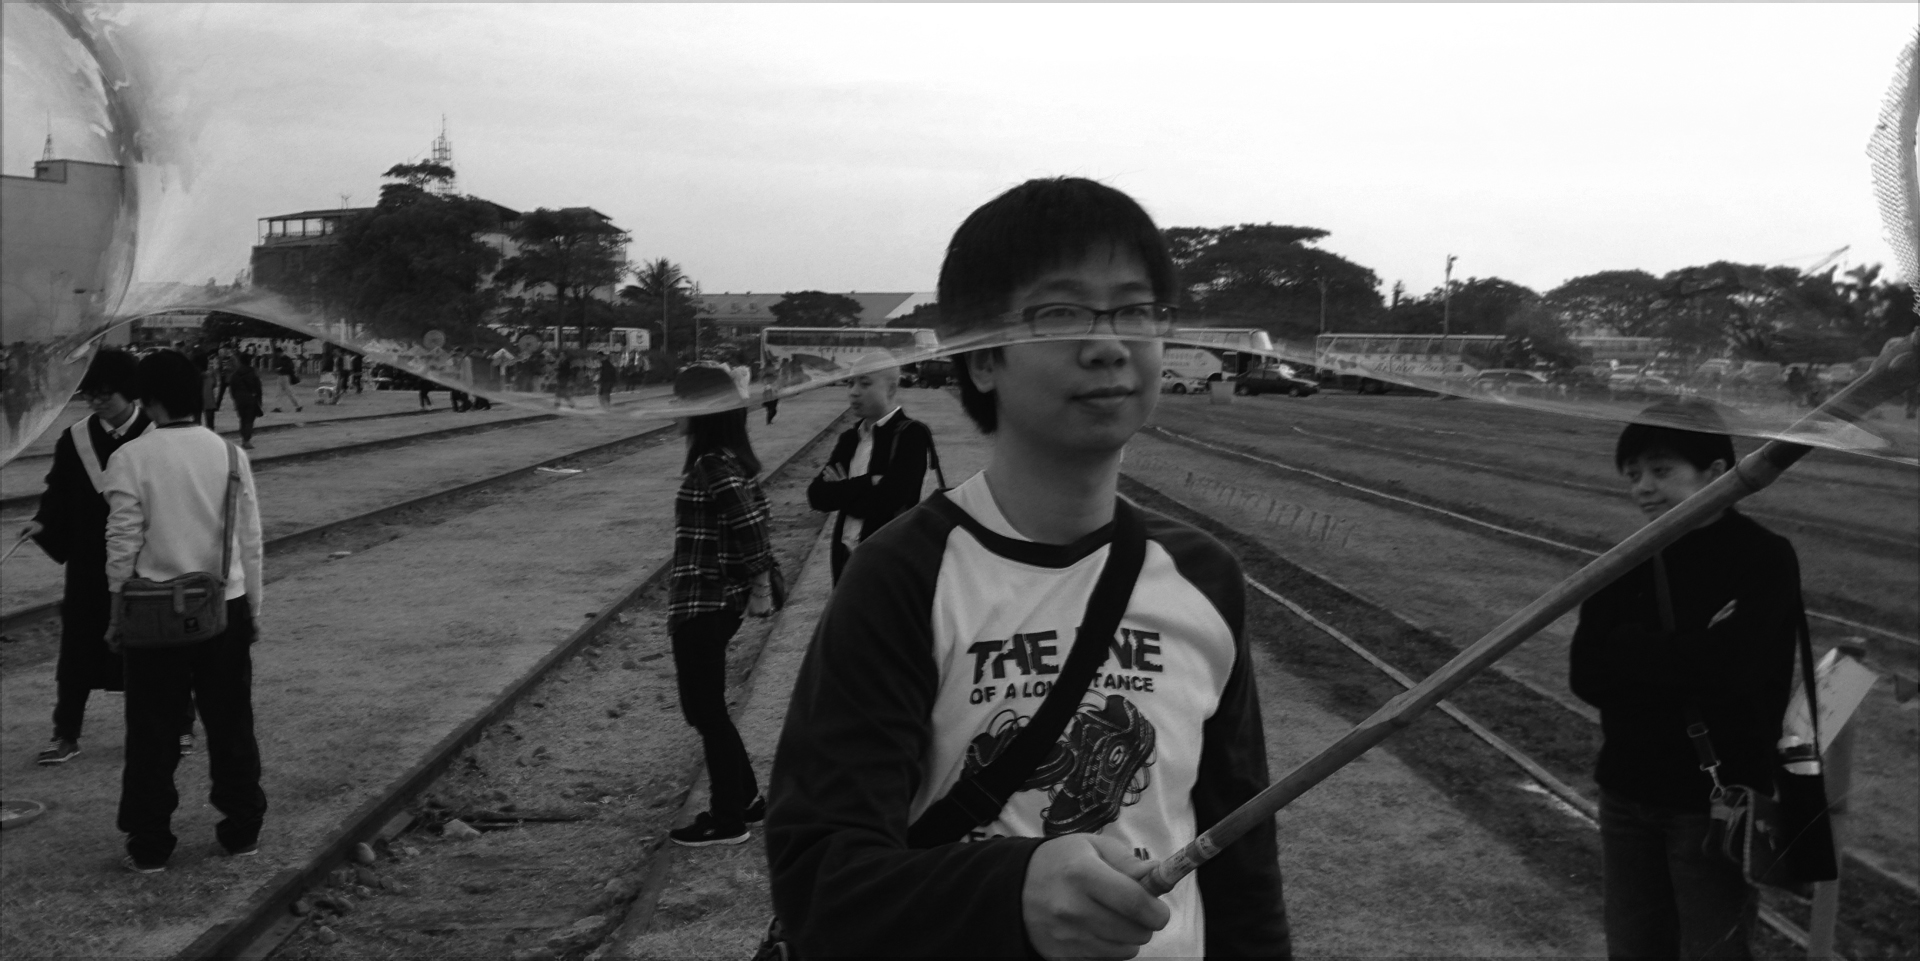
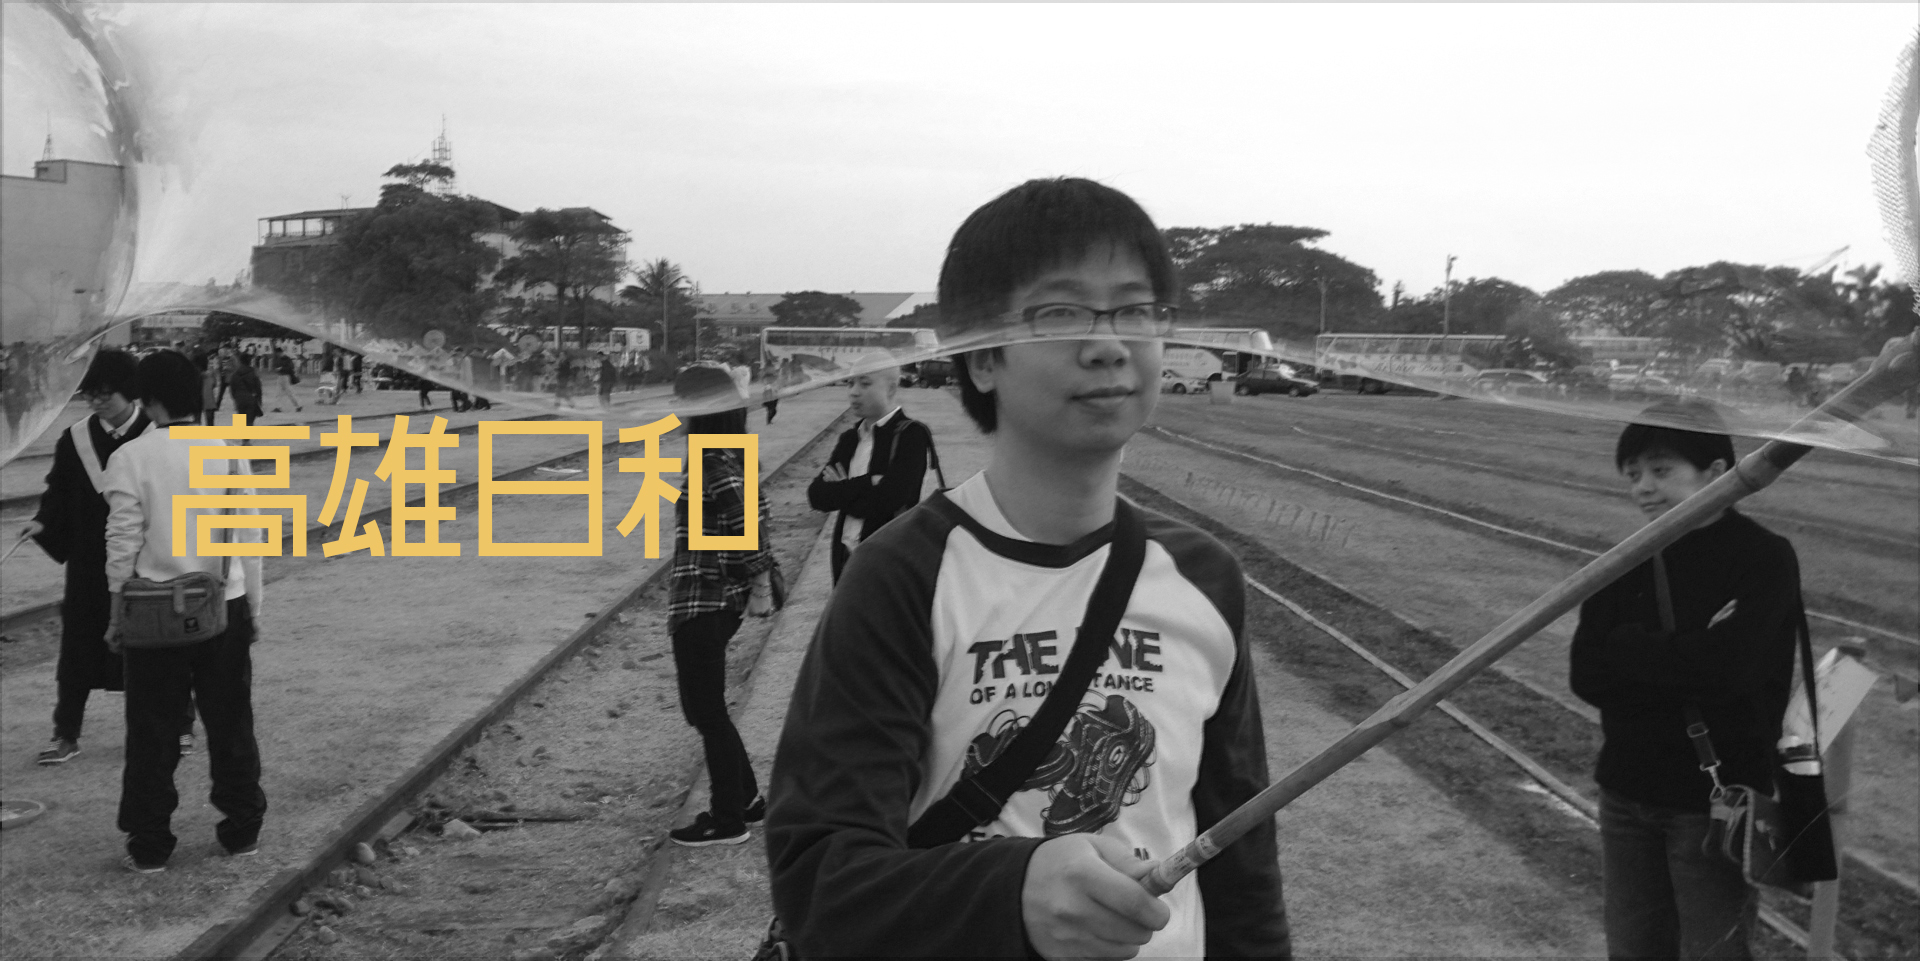
首頁圖片修正

diff --git a/fengzi/index.html b/fengzi/index.html
@@ -5,9 +5,9 @@
 <style>	
 
   h1{
-    color: #FF0080;
-	padding-left: 400px;
-    padding-top: 420px;
+    color: #EEEEEE;
+	padding-left: 190px;
+    padding-top: 565px;
 	}
 	
   div.para{
@@ -34,13 +34,13 @@
   div.block1{
   background-color: #272727; 
   width: 1920px;
-  height: 960px;
+  height: 894px;
 }
 
   div.block2{
-  background-color: #E6006B; 
+  background-color: #EEC666; 
   width: 1920px;
-  height: 960px;
+  height: 894px;
 }
 
 
@@ -54,7 +54,7 @@
   <body>
   
     <div class="photo">
-	 <h1>BETA DESU</h1>
+	 <h1>LAYOUT TEST</h1>
 	</div>
 	
 	<div class="block1">
